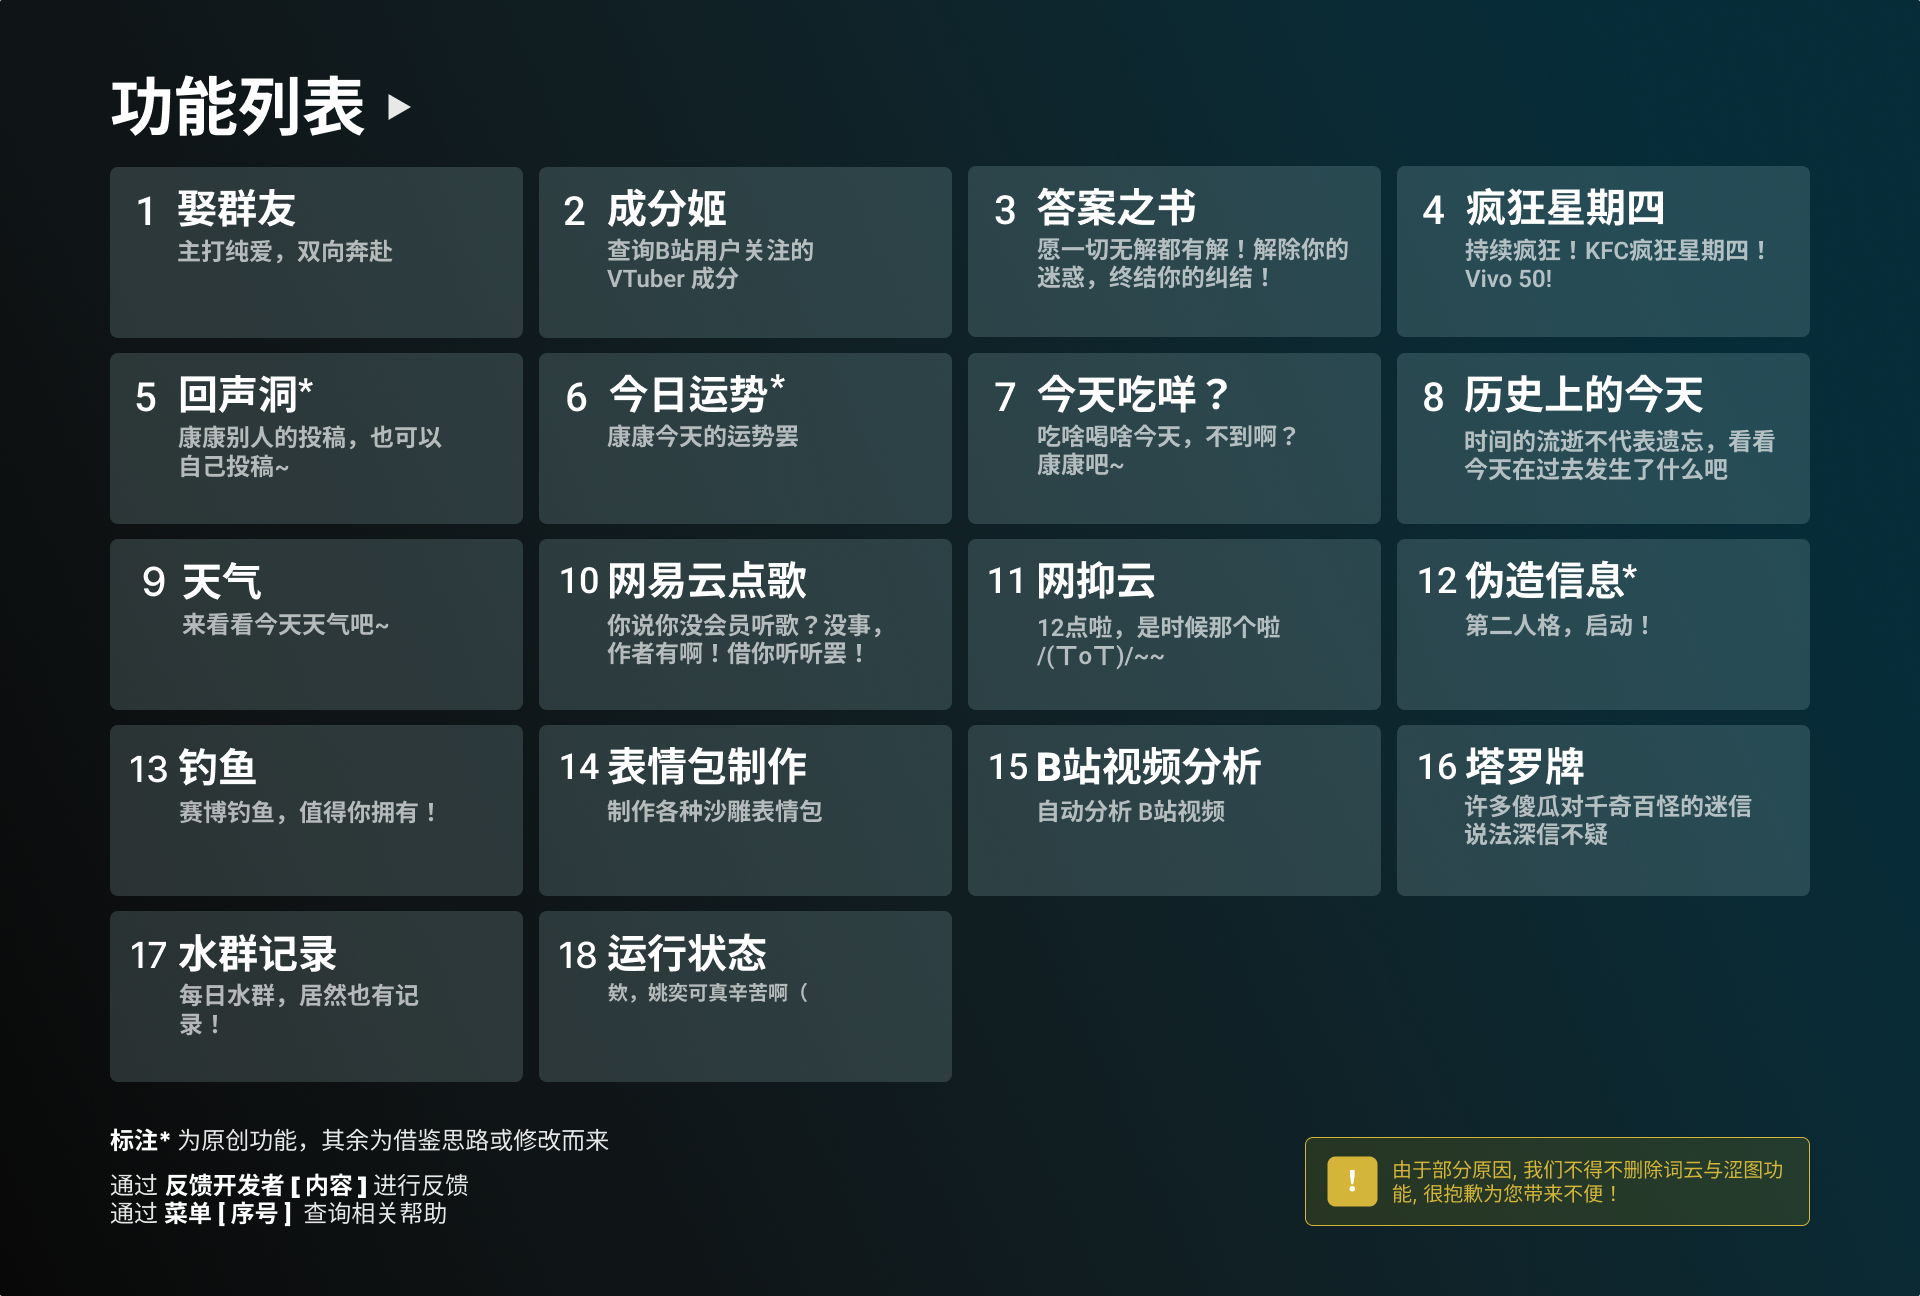
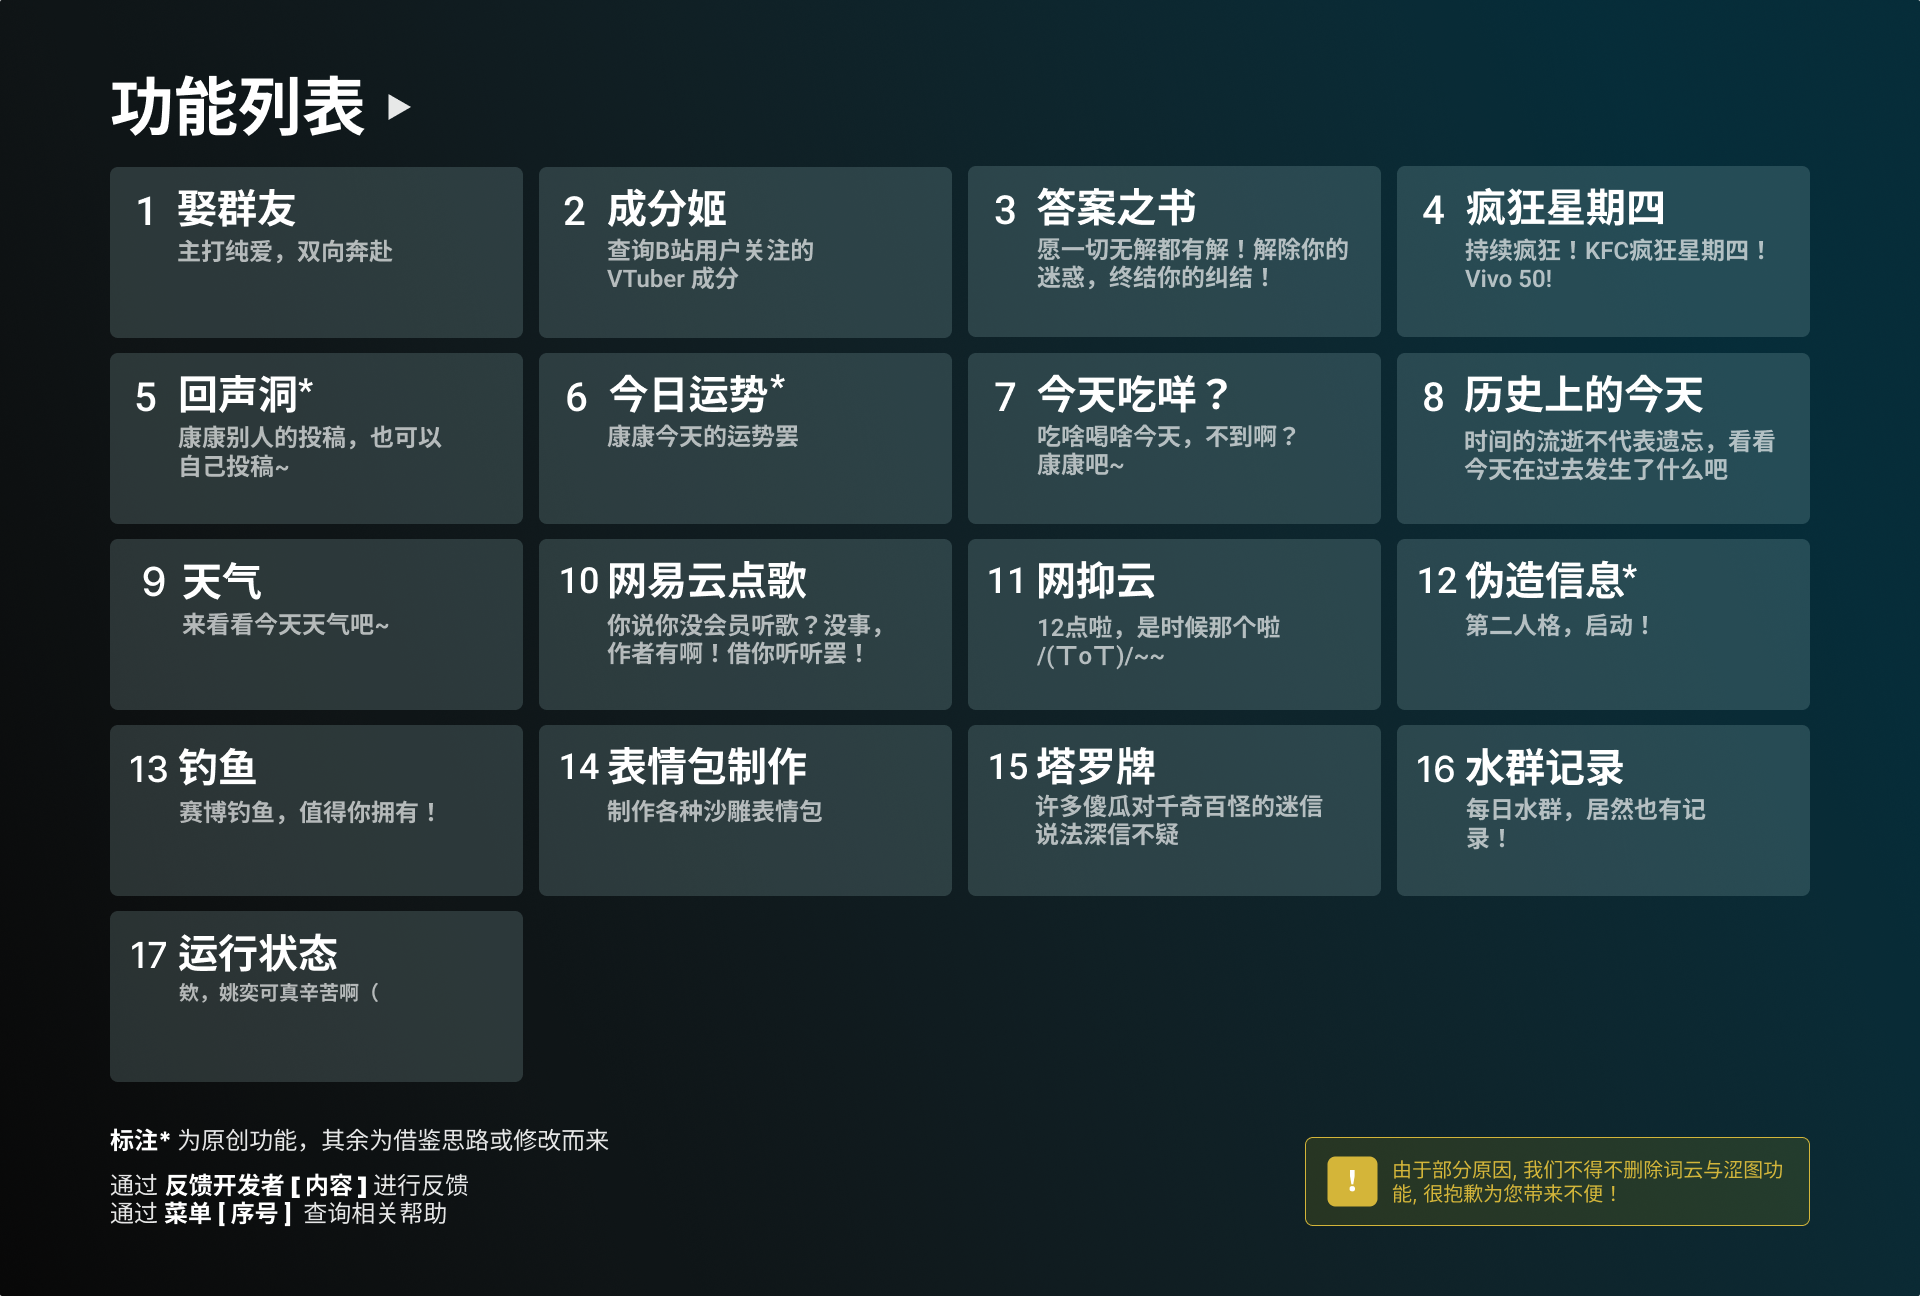
✨ 移除B站视频分析文档，优化插件配置，调整好友请求处理逻辑

diff --git a/src/plugins/addfirend/__init__.py b/src/plugins/addfirend/__init__.py
@@ -41,6 +41,8 @@ async def _(bot: Bot, event: RequestEvent):
         )
         await bot.set_friend_add_request(flag=event.flag, approve=True)
     elif isinstance(event, GroupRequestEvent):
+        if event.sub_type != "invite":
+            return
         nickname = (await bot.get_stranger_info(user_id=event.user_id, no_cache=True))[
             "nickname"
         ]
